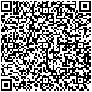
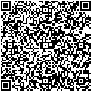
Added function to get missing fragrances using card data, refactored some code, modified QR decoding to further avoid errors

diff --git a/fragrances/fragrances.go b/fragrances/fragrances.go
@@ -1,0 +1,98 @@
+package fragrances
+
+import (
+	"context"
+	"database/sql"
+	"errors"
+	"fmt"
+	"log"
+
+	"github.com/slikasp/dbmanfrags/cards"
+	"github.com/slikasp/dbmanfrags/config"
+	"github.com/slikasp/dbmanfrags/database"
+)
+
+// Only use this on a fresh database.
+// Not useful otherwise, will only check existing links.
+func CheckAllLinks(state *config.State) error {
+	ids, err := state.DB.GetExistingCardIDs(context.Background())
+	if err != nil {
+		return fmt.Errorf("Failed getting IDs from database: %s", err)
+	}
+
+	for _, id := range ids {
+		card, err := state.DB.GetCard(context.Background(), id)
+		if err != nil {
+			return fmt.Errorf("Could not get card by ID %d from database: %s", id, err)
+		}
+
+		urlCard, err := cards.GetLinkFromCard(card.Image)
+		if err != nil {
+			return fmt.Errorf("Failed parsing QR from image: %s", err)
+		}
+
+		urlFrag, err := state.DB.GetFragranceLink(context.Background(), id)
+		if err != nil {
+			// No fragrance with this ID -> add new
+			if errors.Is(err, sql.ErrNoRows) {
+				err = state.DB.AddFragranceLink(context.Background(), database.AddFragranceLinkParams{
+					FragranticaID: id,
+					Url: sql.NullString{
+						String: urlCard,
+						Valid:  true,
+					},
+				})
+				if err != nil {
+					return fmt.Errorf("Failed adding fragrance: %s", err)
+				}
+				log.Printf("Added new fragrance, ID:%d, URL:%s", id, urlCard)
+			} else {
+				// Real error
+				return fmt.Errorf("Could not get fragrance link from database: %s", err)
+			}
+		} else {
+			// Compare links if fragrance is already in database
+			if urlCard != urlFrag.String {
+				return fmt.Errorf("URL mismatch (card:frag): %s:%s", urlCard, urlFrag.String)
+			}
+			log.Printf("Decoded link matches existing fragrance, ID:%d", id)
+		}
+	}
+
+	return nil
+}
+
+func AddMissingFragrances(state *config.State) error {
+	ids, err := state.DB.GetMissingFragranceIDs(context.Background())
+	if err != nil {
+		return fmt.Errorf("Failed getting IDs from database: %s", err)
+	}
+
+	for _, id := range ids {
+		card, err := state.DB.GetCard(context.Background(), id)
+		if err != nil {
+			return fmt.Errorf("Could not get card by ID %d from database: %s", id, err)
+		}
+
+		urlCard, err := cards.GetLinkFromCard(card.Image)
+		if err != nil {
+			return fmt.Errorf("Failed parsing QR from image: %s", err)
+		}
+
+		// Do we need a check for existing fragrances?
+
+		err = state.DB.AddFragranceLink(context.Background(), database.AddFragranceLinkParams{
+			FragranticaID: id,
+			Url: sql.NullString{
+				String: urlCard,
+				Valid:  true,
+			},
+		})
+		if err != nil {
+			return fmt.Errorf("Failed adding fragrance: %s", err)
+		}
+		log.Printf("Added new fragrance, ID:%d, URL:%s", id, urlCard)
+	}
+
+	return nil
+}

diff --git a/cards/cards.go b/cards/cards.go
@@ -147,54 +147,6 @@ func CheckMissingCards(state *config.State) error {
 	return nil
 }
 
-// Only use this on a fresh database.
-// Not useful otherwise, will only check existing links
-// TODO: rework this so only non existent frags and existing cards are decoded
-func CheckAllLinks(state *config.State) error {
-	ids, err := state.DB.GetExistingCardIDs(context.Background())
-	if err != nil {
-		return fmt.Errorf("Failed getting IDs from database: %s", err)
-	}
-
-	for _, id := range ids {
-		card, err := state.DB.GetCard(context.Background(), id)
-		if err != nil {
-			return fmt.Errorf("Could not get card by ID from database: %s", err)
-		}
-
-		urlCard, err := getLinkFromCard(card.Image)
-		if err != nil {
-			return fmt.Errorf("Failed parsing QR from image: %s", err)
-		}
-
-		urlFrag, err := state.DB.GetFragranceLink(context.Background(), id)
-		if err != nil {
-			// No fragrance with this ID -> add new
-			if errors.Is(err, sql.ErrNoRows) {
-				state.DB.AddFragranceLink(context.Background(), database.AddFragranceLinkParams{
-					FragranticaID: id,
-					Url: sql.NullString{
-						String: urlCard,
-						Valid:  true,
-					},
-				})
-				log.Printf("Added new fragrance, ID:%d, URL:%s", id, urlCard)
-			} else {
-				// Real error
-				return fmt.Errorf("Could not get fragrance link from database: %s", err)
-			}
-		} else {
-			// Compare links if fragrance is already in database
-			if urlCard != urlFrag.String {
-				return fmt.Errorf("URL mismatch (card:frag): %s:%s", urlCard, urlFrag.String)
-			}
-			log.Printf("Decoded link matches existing fragrance, ID:%d", id)
-		}
-	}
-
-	return nil
-}
-
 // TODOS
 
 // func - look for new cards: get max number with card, check for next ~100 cards, if found, update the max number

diff --git a/cards/qr.go b/cards/qr.go
@@ -50,7 +50,7 @@ func cropQR(filePath string) (image.Image, error) {
 	}
 
 	// Crop rectangle in *image coordinates* (x0,y0) -> (x1,y1)
-	rect := image.Rect(1044, 9, 1136, 101) // left, top, right, bottom
+	rect := image.Rect(1041, 6, 1139, 104) // left, top, right, bottom
 
 	sub, ok := img.(interface {
 		SubImage(r image.Rectangle) image.Image
@@ -161,9 +161,10 @@ func decodeGozxing(img image.Image) (string, error) {
 
 	reader := qrcode.NewQRCodeReader()
 
-	hints := map[gozxing.DecodeHintType]interface{}{
-		gozxing.DecodeHintType_TRY_HARDER: true,
-	}
+	// hints := map[gozxing.DecodeHintType]interface{}{
+	// 	gozxing.DecodeHintType_TRY_HARDER: true,
+	// }
+	hints := map[gozxing.DecodeHintType]interface{}{}
 
 	result, err := reader.Decode(bmp, hints)
 	if err != nil {
@@ -187,7 +188,7 @@ func stripQuery(raw string) (string, error) {
 }
 
 // Gets the link to the fragrance from it's card image
-func getLinkFromCard(cardPath string) (string, error) {
+func GetLinkFromCard(cardPath string) (string, error) {
 	// Crop QR from card image
 	img, err := cropQR(cardPath)
 	if err != nil {
@@ -206,7 +207,7 @@ func getLinkFromCard(cardPath string) (string, error) {
 	img = fixQR(img)
 
 	// ONLY FOR TESTING
-	// saveImage(img, "cards/cards/qr/temp_fixed.jpeg")
+	saveImage(img, "cards/cards/qr/temp_fixed.jpeg")
 
 	// decode QR code
 	link, err := decodeGozxing(img)

diff --git a/database/cards_fragrances.sql.go b/database/cards_fragrances.sql.go
@@ -1,0 +1,45 @@
+// Code generated by sqlc. DO NOT EDIT.
+// versions:
+//   sqlc v1.30.0
+// source: cards_fragrances.sql
+
+package database
+
+import (
+	"context"
+)
+
+const getMissingFragranceIDs = `-- name: GetMissingFragranceIDs :many
+SELECT cards.fragrantica_id
+FROM cards
+WHERE has_card = 't'
+  AND NOT EXISTS (
+      SELECT fragrances.fragrantica_id
+      FROM fragrances
+      WHERE cards.fragrantica_id = fragrances.fragrantica_id
+  )
+ORDER BY cards.fragrantica_id ASC
+`
+
+func (q *Queries) GetMissingFragranceIDs(ctx context.Context) ([]int32, error) {
+	rows, err := q.db.QueryContext(ctx, getMissingFragranceIDs)
+	if err != nil {
+		return nil, err
+	}
+	defer rows.Close()
+	var items []int32
+	for rows.Next() {
+		var fragrantica_id int32
+		if err := rows.Scan(&fragrantica_id); err != nil {
+			return nil, err
+		}
+		items = append(items, fragrantica_id)
+	}
+	if err := rows.Close(); err != nil {
+		return nil, err
+	}
+	if err := rows.Err(); err != nil {
+		return nil, err
+	}
+	return items, nil
+}

diff --git a/cards/qr_test.go b/cards/qr_test.go
@@ -5,7 +5,7 @@ import (
 )
 
 func TestCropFix(t *testing.T) {
-	path := "cards/en/p_c_1.jpeg"
+	path := "cards/en/p_c_9764.jpeg"
 
 	img, err := cropQR(path)
 	if err != nil {
@@ -16,6 +16,8 @@ func TestCropFix(t *testing.T) {
 	if err != nil {
 		t.Errorf("Failed to save: %v", err)
 	}
+
+	img = PreprocessQR(img)
 
 	fixed := fixQR(img)
 
@@ -28,12 +30,14 @@ func TestCropFix(t *testing.T) {
 }
 
 func TestResolveQR(t *testing.T) {
-	path := "cards/en/p_c_1.jpeg"
+	path := "cards/en/p_c_9764.jpeg"
 
 	img, err := cropQR(path)
 	if err != nil {
 		t.Errorf("Could not crop: %v", err)
 	}
+
+	img = PreprocessQR(img)
 
 	fixed := fixQR(img)
 
@@ -47,7 +51,7 @@ func TestResolveQR(t *testing.T) {
 		t.Errorf("Could not strip URL: %v", err)
 	}
 
-	expected := "https://www.fragrantica.com/perfume/Azzaro/Orange-Tonic-1.html"
+	expected := "https://www.fragrantica.com/perfume/I-Profumi-di-Firenze/Acqua-Chiara-9764.html"
 	if stripped != expected {
 		t.Errorf("Unexpected result: %s:%s", stripped, expected)
 	}

diff --git a/main.go b/main.go
@@ -6,9 +6,9 @@ import (
 	"log"
 
 	_ "github.com/lib/pq"
-	"github.com/slikasp/dbmanfrags/cards"
 	"github.com/slikasp/dbmanfrags/config"
 	"github.com/slikasp/dbmanfrags/database"
+	"github.com/slikasp/dbmanfrags/fragrances"
 )
 
 func setup() (*config.State, error) {
@@ -56,7 +56,7 @@ func main() {
 	log.Println("application started")
 
 	// Run
-	err = cards.CheckAllLinks(stt)
+	err = fragrances.AddMissingFragrances(stt)
 	if err != nil {
 		log.Fatalf("Failed running commands: %v", err)
 	}

diff --git a/cards/cards_test.go b/cards/cards_test.go
@@ -22,7 +22,7 @@ func TestMakers(t *testing.T) {
 }
 
 func TestDownload(t *testing.T) {
-	card1, err := downloadCard(1)
+	card1, err := downloadCard(9764)
 	if err != nil {
 		t.Errorf("Download failed: %v", err)
 	}
